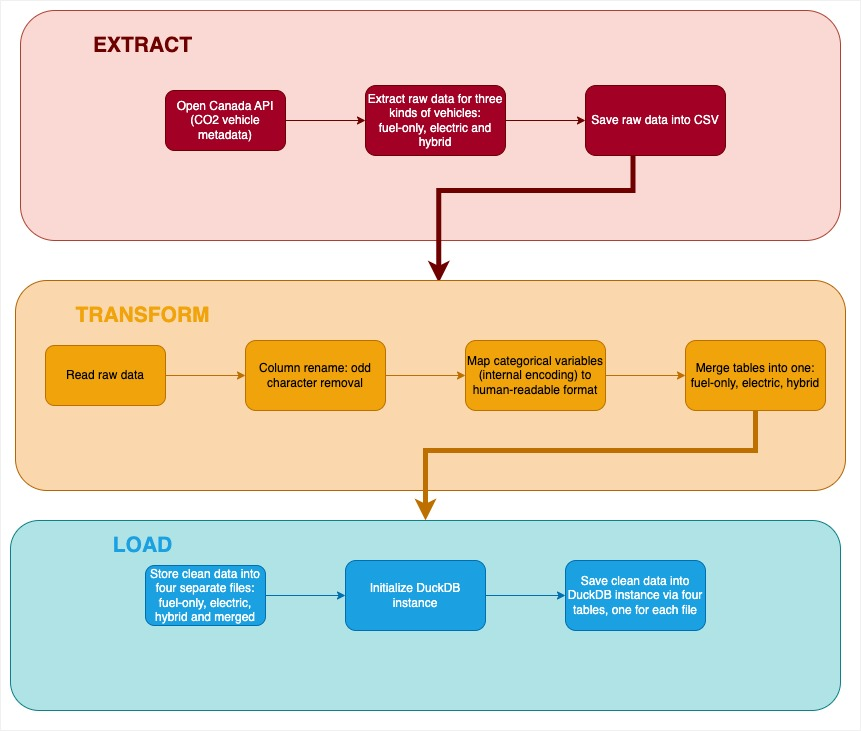
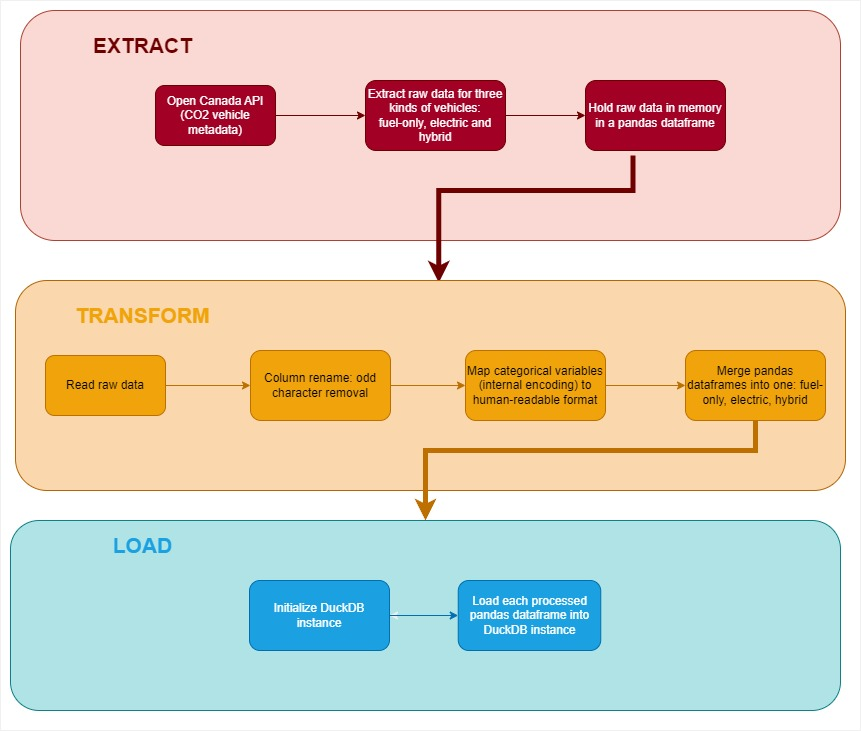
changed diagram and revisions

diff --git a/docs/packaging-your-sql-project/intro-to-etl-pipelines-with-python-and-sql.md b/docs/packaging-your-sql-project/intro-to-etl-pipelines-with-python-and-sql.md
@@ -51,9 +51,11 @@ Before we dive into understanding how this script fundamentally follows an ETL p
 
 Let's now dissect `datadownload.py` and focus specifically on key lines of its ETL process.
 
+![](etl-co2-sample.jpg)
+
 ### Extracting with Python
 
-Take a look at the function `fuel_consumption_metadata_extraction`. On lines 96 - 114, we access the Government of Canada's API and extract data regarding fuel consumption ratings that are in English. The output of this function is a `pandas` data frame with two columns: "name" and "url". Each row in the data frame corresponds to a single data set under the fuel consumptions ratings portfolio that is in English.  
+Take a look at the function `fuel_consumption_metadata_extraction`. On lines 100 - 115, we access the Government of Canada's API and extract data regarding fuel consumption ratings that are in English. The output of this function is a `pandas` data frame with two columns: "name" and "url". Each row in the data frame corresponds to a single data set under the fuel consumptions ratings portfolio that is in English.  
 
 ```python
 url_open_canada = "https://open.canada.ca/data/api/action/package_show?id=98f1a129-f628-4ce4-b24d-6f16bf24dd64"  # noqa E501
@@ -77,13 +79,12 @@ if (
     final_result = data_entries_english[["name", "url"]]
 ```
 
-We then finalize the extraction process by saving each data set from the `final_results` `pandas` data frame in its raw format as a `.csv` file. This is done with the `extract_raw_data` and `save_raw_data` functions under a `for loop` in the script's main call on lines 378 - 400.
+We then finalize the extraction process by saving each data set in its raw format as its own `pandas` data frame from  `final_result`. This is done with the `extract_raw_data` functions under a `for loop` in the script's main call on lines 342 - 358.
 
 ```python
 # Fuel consumption metadata extraction urls
 data_entries_english = fuel_consumption_metadata_extraction()
 
-# Iterate over entries
 for item in data_entries_english.iterrows():
     name, url = item[1]["name"], item[1]["url"]
 
@@ -96,50 +97,36 @@ for item in data_entries_english.iterrows():
     # Extract raw data
     item_based_url = extract_raw_data(url)
 
-    # Save raw data into a csv file
-    save_raw_data(raw_data_path, item_based_url, file_name)
-
-    # Read and clean csv file
-    final_df = read_and_clean_csv_file(
-        raw_data_path, name.replace(" ", "_") + ".csv"
-    )
+    # Read and clean as pandas df
+    df = pd.read_csv(StringIO(item_based_url.text), low_memory=False)
 ```
 
 
 ### Transforming with Python `pandas`
 
+We clean each of the extracted data sets with the `read_and_clean` function prior to any other transformations. This function is called immediately after the above lines on line 359. 
+
+```python
+final_df = read_and_clean_df(df)
+```
+
 A large bulk of the script is dedicated to transforming the data into our desired format. Under the `for loop` and after the extraction process described in the above section, we condition the values of the `name` column of our `data_entries_english` `pandas` data frame that contains the name and url of each data set. The script then perform the appropriate transformations conditioned on whether the data set regards hybrid, electric, or gas type vehicles. 
 
 Much of the `pandas` transformations in this section are repeatedly used throughout this script. These functions are easily inferred based on their syntax, such as `replace`, `rename`, and `map`. Because of how repetitive and lengthy the code is, we won't show it in detail for this section. Rather, the main takeaway is that `pandas` transformations are not that difficult to grasp and that they do not stray too far away from SQL functionality. 
 
-One last thing we did on lines 509 - 524 is save the transformed data sets into local `.csv` files. We also create a dataset that concatenates the 3 main data sets into one `.csv` file. 
+After performing the appropriate transformations, we create one last additional `pandas` data frame in memory with the `concatenate_dataframes` function on line 461. This data frame is the concatenation of all the transformed datasets thus far.
 
 ```python
-# Read in hybrid and electric vehicles
-hybrid_df = pd.read_csv(
-    Path(clean_data_path, "Plugin_hybrid_electric_vehicles__.csv")
-)
-electric_df = pd.read_csv(
-    Path(clean_data_path, "Batteryelectric_vehicles__.csv")
-)  # noqa E501
-# Call concatenate_dataframes() function to concatenate all dataframes
-all_vehicles_df = concatenate_dataframes(
-    fuel_based_df, hybrid_df, electric_df
-)  # noqa E501
-
-# Save all_vehicles_df to csv
-all_vehicles_df.to_csv(
-    Path(clean_data_path, "all_vehicles.csv"), index=False
-)  # noqa E501
+all_vehicles_df = concatenate_dataframes(fuel_based_df, hybrid_df, electric_df)
 ```
 
 With this, we're ready to move forward and complete the last step of loading our data into a DuckDB file.
 
 ### Loading with `SQL`
 
-Our last step simply loads our transformed data from their `.csv` format into a DuckDB data base. 
+Our last step simply loads our transformed data from their `pandas` data frame format into a DuckDB data base. 
 
-We first create a directory to store our DuckDB file based on our current working directory. We then populate this newly created directory under `pipeline/data/database` with a file called `car_data.duckdb`. This can be seen on lines 552 - 559.
+We first create a directory to store our DuckDB file based on our current working directory. We then populate this newly created directory under `pipeline/data/database` with a file called `car_data.duckdb`. This can be seen on lines 463 - 470.
 
 ```python
 # Creating a new directory for DuckDB tables
@@ -154,7 +141,7 @@ duckdb_file_path = os.path.join(database_directory, "car_data.duckdb")
 
 Why are we naming the DuckDB file `car_data.duckdb`? We thought it would be appropriate given our data and because we think it follows the de facto standard of database naming conventions. [This article](https://dev.to/ovid/database-naming-standards-2061) is a great resource to learn more about this good to follow practice.
 
-Focusing back to our script, we finalize this process with loading our data into `car_data.duckb` by using `duckdb`, a DuckDB `python` API. Lines 561 - 584 ensures that `car_data.duckb` creates the appropriate tables in our newly created data base. For more information on DuckDB's python API, please visit the official documentation [found here](https://duckdb.org/docs/api/python/overview).
+Focusing back to our script, we finalize this process with loading our data into `car_data.duckb` by using `duckdb`, a DuckDB `python` API. Lines 472 - 487 ensures that `car_data.duckb` creates the appropriate tables in our newly created data base. For more information on DuckDB's python API, please visit the official documentation [found here](https://duckdb.org/docs/api/python/overview).
 
 ```python
 con = duckdb.connect(duckdb_file_path)
@@ -178,7 +165,6 @@ con.execute(
 con.execute(
     f"CREATE TABLE all_vehicles AS SELECT * FROM read_csv_auto ('{all_vehicles_csv}')"  # noqa E501
 )
-
 
 con.close()
 ```
